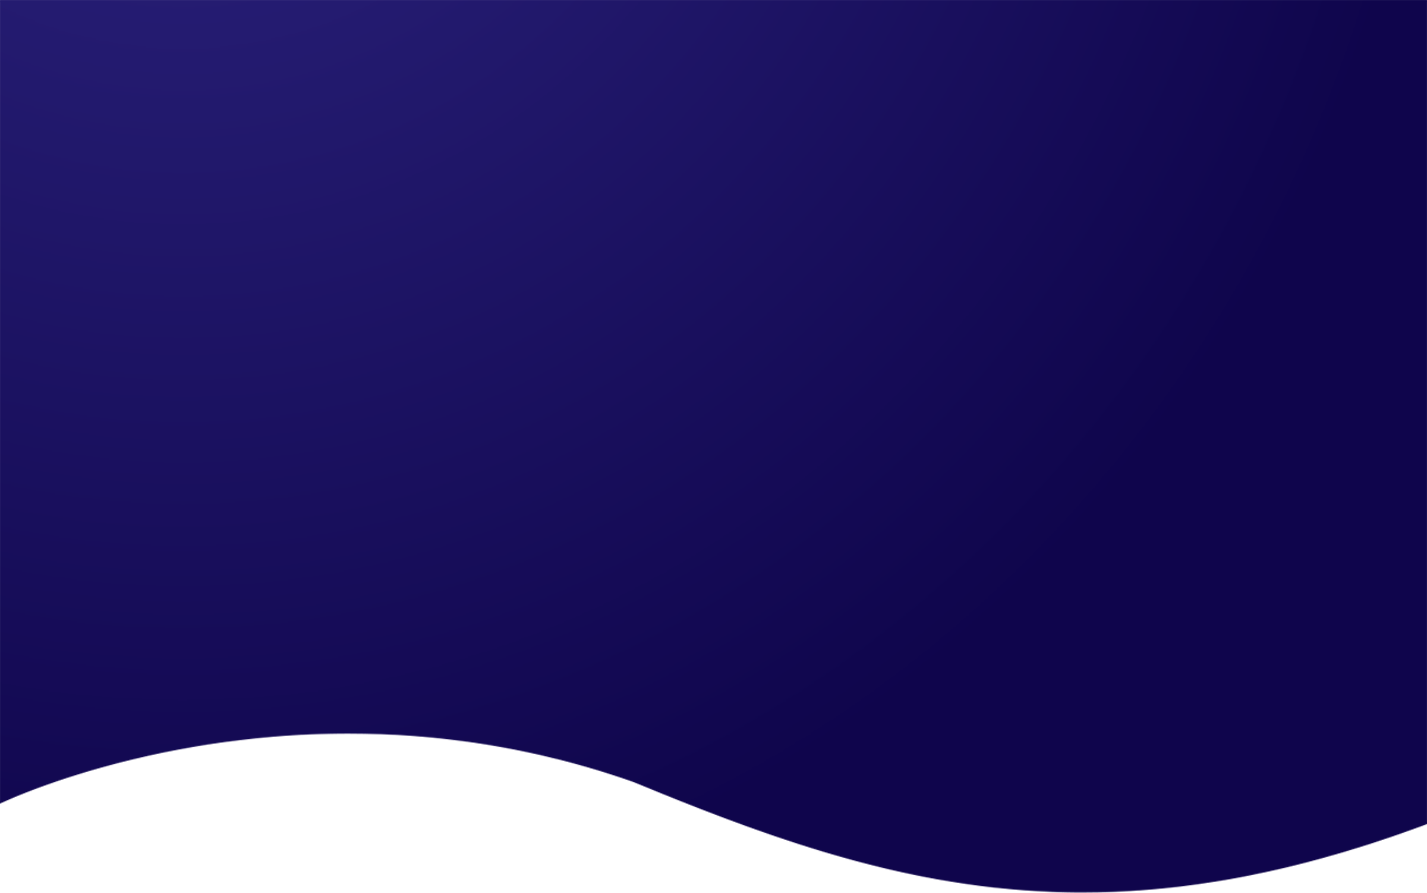
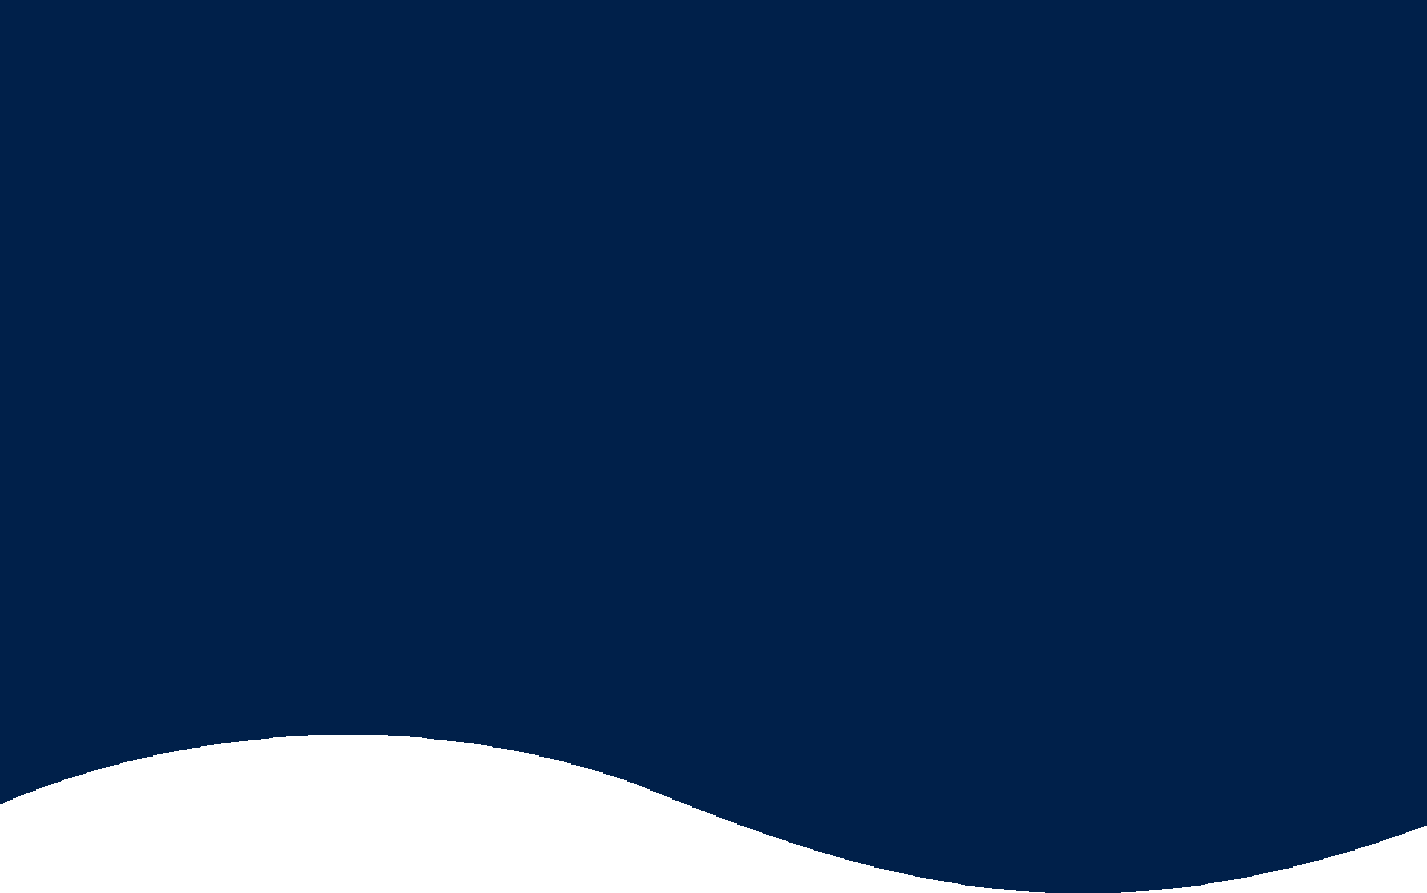
fix navbar colors

diff --git a/css/style.css b/css/style.css
@@ -127,7 +127,7 @@ a:focus {
 
 .sub_page .hero_area {
   min-height: auto;
-  background: linear-gradient(130deg, #231a6f, #0f054c);
+  background: #00204a;
 }
 
 .sub_page .hero_area .hero_bg_box {
